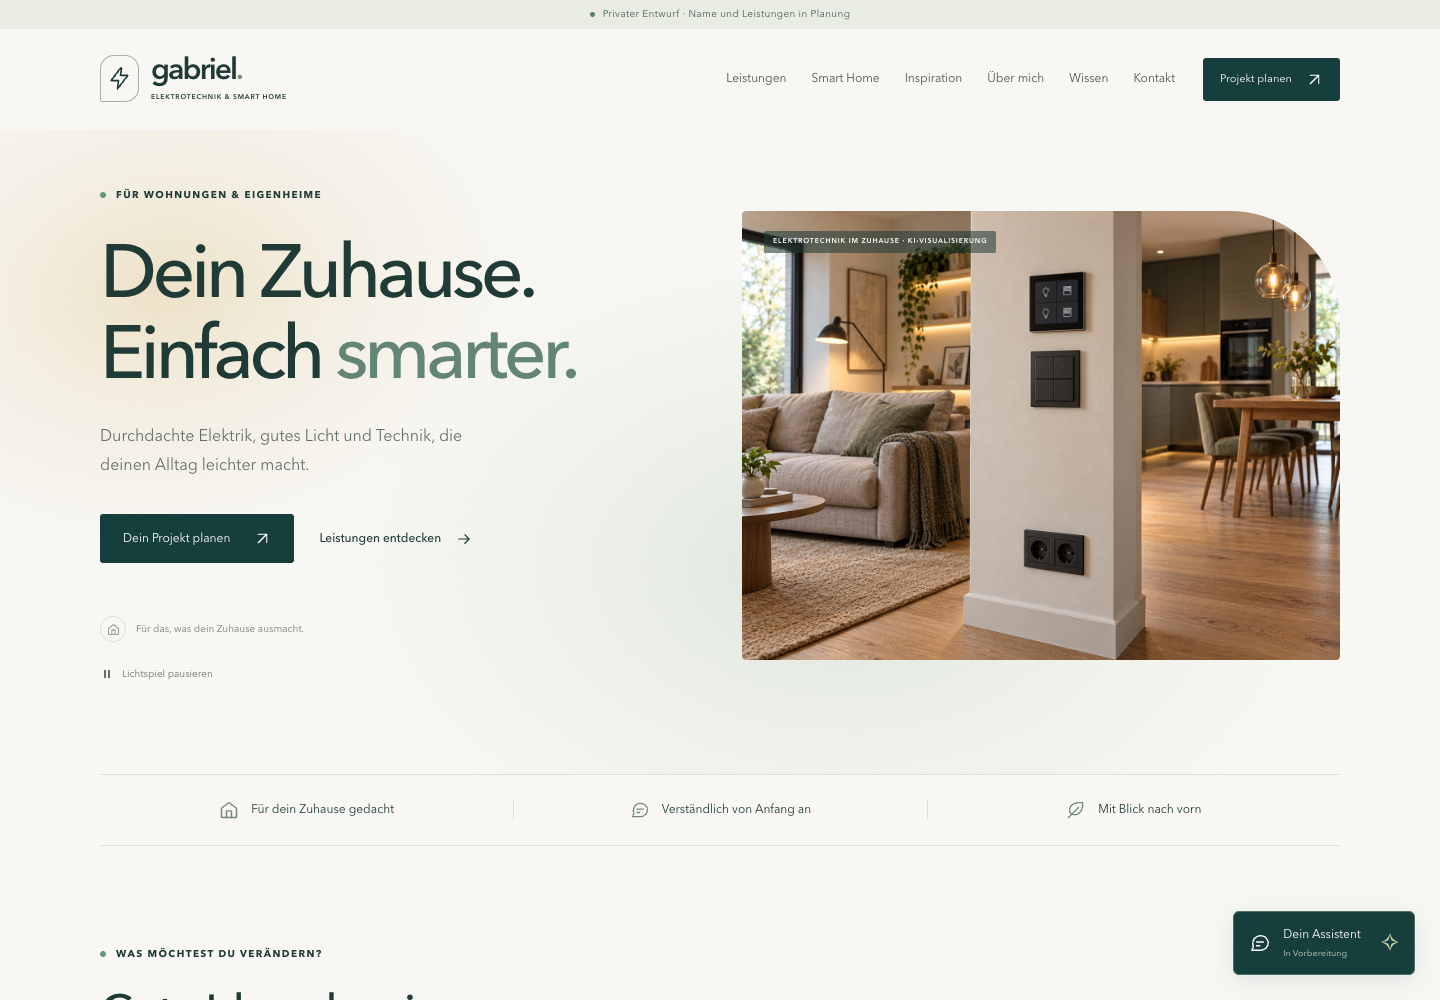
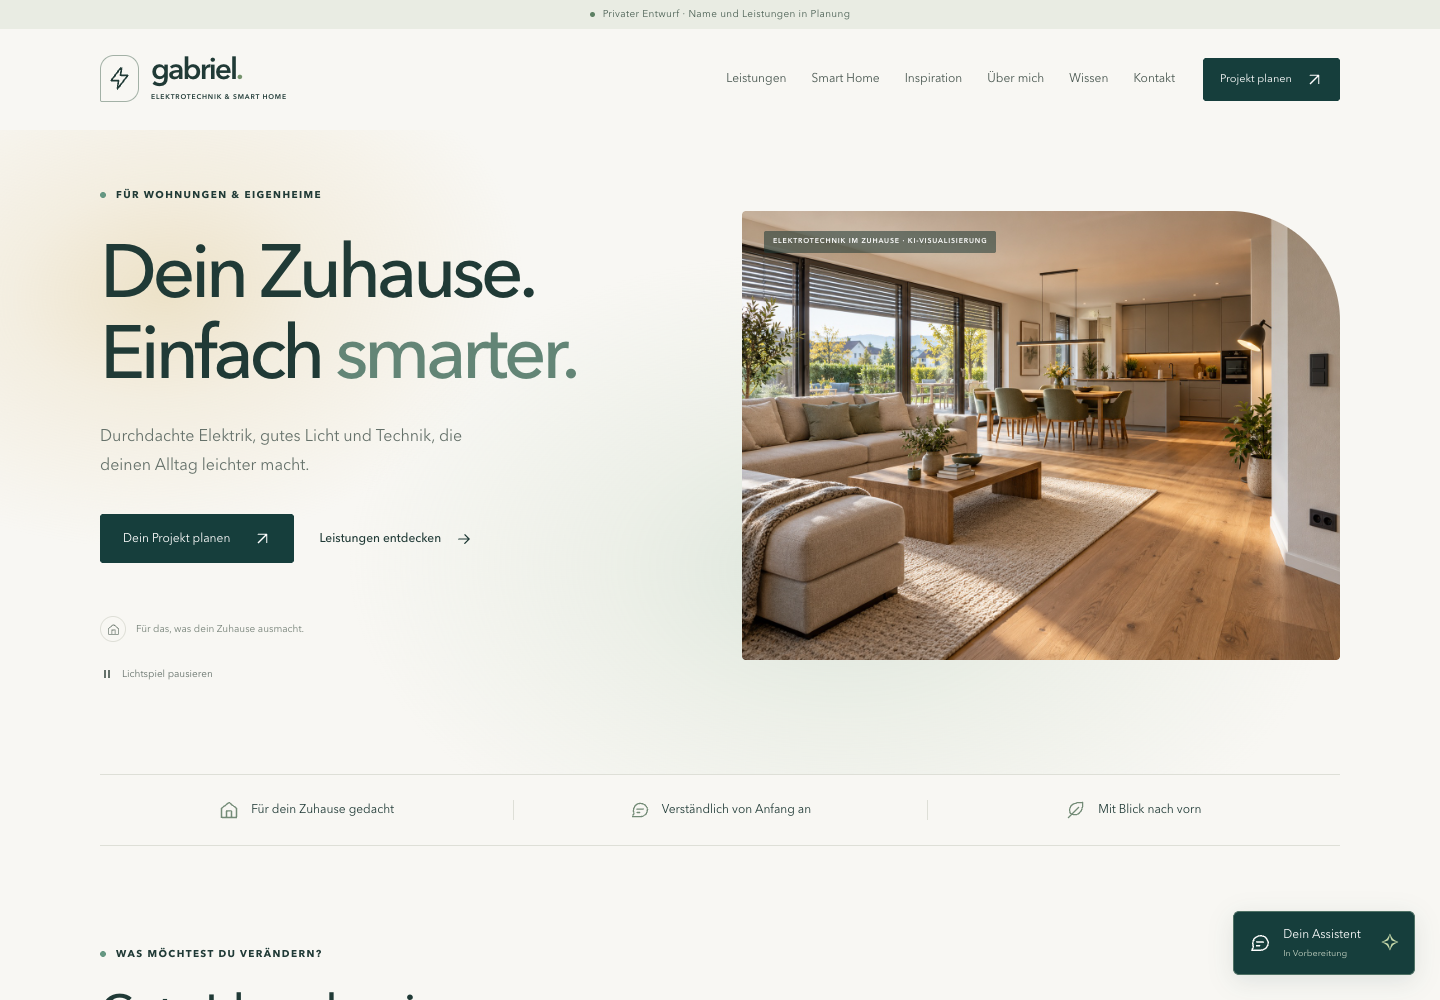
Neues Startbild mit weitem Wohnraumblick und integrierter Elektrotechnik einbauen

Changed region(s): [[0.5, 0.186, 0.9375, 0.682]]

diff --git a/docs/PROJEKTSTAND.md b/docs/PROJEKTSTAND.md
@@ -1,13 +1,21 @@
 # Projektstand
 
-Stand: 30.10.2026 · Weiterer Ausschnitt für das Startbild
+Stand: 30.10.2026 · Neues Startbild mit großzügigem Raumblick
 
-## Aktuelle Bildanpassung
+## Aktuelles Startbild
+
+- Gabriel hat ausdrücklich ein neues Bild beauftragt. Das Motiv mit zentraler Technikwand wurde ersetzt.
+- Neues Motiv mit eingebautem Imagegen: großzügiger Blick auf einen offenen Wohn- und Essbereich. Steckdosen und Wandtaster sitzen an der Seitenwand; Jalousien, eingeschaltete Leuchten und offene Küche mit Backofen sind in den Raum eingebunden.
+- Datei: `public/assets/wohnraum-elektrotechnik-weit.jpg`, 1448 × 1086 Pixel. Vollständiges Foto im Seitenverhältnis 4:3 auf Desktop und Mobil. Preload, Alternativtext und Bildnachweise angepasst; Kennzeichnung als KI-Visualisierung bleibt erhalten. Originalpfad und vollständiger Prompt in [STARTBILD-WOHNRAUM.md](STARTBILD-WOHNRAUM.md).
+- Build und 509 interne Verweise erfolgreich. Alle Seiten erreichbar sowie mobiles Layout und Navigation erfolgreich geprüft. Neues Bild und passender Preload auf Desktop und Mobil kontrolliert; Vorschauansichten aktualisiert.
+- Aktueller Arbeitsbranch: `feat/startbild-wohnraum-weit`, aufbauend auf `46427bb`. Nächster Schritt: das neue Raummotiv mit Gabriel ansehen und sein Feedback aufnehmen.
+
+## Vorherige Bildanpassung
 
 - Gabriel gefiel die nahe Darstellung nicht; sein Wunsch war, etwas herauszuzoomen.
 - Das vorhandene Foto wird jetzt vollständig im Seitenverhältnis 4:3 und mittig angezeigt. Der hohe Bildrahmen mit seitlichem Beschnitt entfällt. Mehr Wohnraum ist sichtbar, die Technik wirkt kleiner. Die Bilddatei wurde nicht verändert und kein neues Motiv generiert.
 - Umsetzung nur in `public/assets/smart-demos.css`, Einzelheiten in [STARTBILD.md](STARTBILD.md). Build und 509 interne Verweise sowie mobile Navigation und Layout erfolgreich geprüft. Vollständiges Bildverhältnis auf Desktop und Mobil kontrolliert; Vorschauansichten aktualisiert.
-- Aktueller Arbeitsbranch: `style/startbild-weiterer-ausschnitt`, aufbauend auf `92cd957`. Nächster Schritt: den weiteren Ausschnitt mit Gabriel ansehen.
+- Mit `46427bb` auf `style/startbild-weiterer-ausschnitt` gesichert, aufbauend auf `92cd957`.
 
 ## Aktuelle Überarbeitung
 
@@ -122,7 +130,7 @@ Fragen und Verhalten stehen in [INSPIRATIONSBERATER.md](INSPIRATIONSBERATER.md).
 
 ## Nächster gemeinsamer Schritt
 
-Beim Wiedereinstieg den weiteren Ausschnitt des Startbilds mit Gabriel ansehen und sein Feedback aufnehmen. Die Lichtstärke ist bereits leicht erhöht. Auch Jalousien-Demo und die sechs erweiterten Leistungsseiten können weiter verfeinert werden. Die reduzierte Lichtauswahl und die Abenddämmerung sind umgesetzt. Bei weiterer Smart-Home-Arbeit an `src/smart-home.mjs`, `src/room.mjs` und `src/shading.mjs` anknüpfen. Inspiration und Berater können bei Bedarf weiter verfeinert werden.
+Beim Wiedereinstieg das neue Startbild mit großzügigem Raumblick mit Gabriel ansehen und sein Feedback aufnehmen. Die Lichtstärke ist bereits leicht erhöht. Auch Jalousien-Demo und die sechs erweiterten Leistungsseiten können weiter verfeinert werden. Die reduzierte Lichtauswahl und die Abenddämmerung sind umgesetzt. Bei weiterer Smart-Home-Arbeit an `src/smart-home.mjs`, `src/room.mjs` und `src/shading.mjs` anknüpfen. Inspiration und Berater können bei Bedarf weiter verfeinert werden.
 
 Gabriels ergänzende Idee ist festgehalten: Wiederkehrende Fragen aus dem späteren echten Chatbot sollen als „Top-Fragen“ mit kurzen Antworten beim Berater ergänzt werden. Fehlt für die Beratung regelmäßig eine Angabe, kann auch der Fragenablauf gezielt erweitert werden. Es werden dafür jetzt keine häufigen Kundenfragen behauptet. Die spätere Auswertung und Übernahme sind noch nicht implementiert.
 
@@ -132,7 +140,7 @@ Danach bleiben Firmenname, Einsatzgebiet, tatsächlicher Leistungsumfang, echte 
 
 Privates Repository: https://github.com/Gabrielysf31/meine-website
 
-Die erste Website-Umsetzung liegt auf `feat/erster-website-entwurf` bis Commit `b73bed2`. Die konkrete Konzeptausarbeitung wurde auf `docs/inspirationsberater-konzept` mit Commit `82b6863` gesichert. Inspiration und Berater wurden mit Commit `a33994a` auf `feat/inspiration-berater` gesichert. Darauf bauen Smart Home (`8ddc091`), Lichtsimulation (`a7aeeec`), Tageslicht (`e6a6a90`), die zwischenzeitliche rote Lichtfarbe (`630896b`) und die endgültige reduzierte Auswahl (`e4ad57b`) auf. Der Abschluss vom 29.10. liegt mit Commit `066b7fb` auf `feat/smart-home-ruhige-lichtstimmungen`. Die Abenddämmerung wurde mit `9108999` auf `fix/smart-home-abenddaemmerung` gesichert. Die ausgearbeiteten Leistungsseiten liegen mit `75dc264` auf `feat/leistungen-ausfuehrlich`. Jalousien-Demo und erstes Lichtspiel sind mit `3cba83c` auf `feat/jalousien-demo-lichtspiel` gesichert. Das verstärkte Lichtspiel ist mit `2b06c13` auf `style/lichtspiel-sichtbarer` gesichert. Das neue Startbild und die nochmals leicht angehobene Lichtstärke sind mit `92cd957` auf `feat/startbild-elektrotechnik` gesichert. Der aktuelle, vollständige Arbeitsstand mit weiterem Bildausschnitt liegt auf `style/startbild-weiterer-ausschnitt`. `main` enthält weiterhin die ursprüngliche Repository-Initialisierung; es wurde nichts in `main` integriert oder als Website veröffentlicht.
+Die erste Website-Umsetzung liegt auf `feat/erster-website-entwurf` bis Commit `b73bed2`. Die konkrete Konzeptausarbeitung wurde auf `docs/inspirationsberater-konzept` mit Commit `82b6863` gesichert. Inspiration und Berater wurden mit Commit `a33994a` auf `feat/inspiration-berater` gesichert. Darauf bauen Smart Home (`8ddc091`), Lichtsimulation (`a7aeeec`), Tageslicht (`e6a6a90`), die zwischenzeitliche rote Lichtfarbe (`630896b`) und die endgültige reduzierte Auswahl (`e4ad57b`) auf. Der Abschluss vom 29.10. liegt mit Commit `066b7fb` auf `feat/smart-home-ruhige-lichtstimmungen`. Die Abenddämmerung wurde mit `9108999` auf `fix/smart-home-abenddaemmerung` gesichert. Die ausgearbeiteten Leistungsseiten liegen mit `75dc264` auf `feat/leistungen-ausfuehrlich`. Jalousien-Demo und erstes Lichtspiel sind mit `3cba83c` auf `feat/jalousien-demo-lichtspiel` gesichert. Das verstärkte Lichtspiel ist mit `2b06c13` auf `style/lichtspiel-sichtbarer` gesichert. Das neue Startbild und die nochmals leicht angehobene Lichtstärke sind mit `92cd957` auf `feat/startbild-elektrotechnik` gesichert. Der weitere Bildausschnitt ist mit `46427bb` auf `style/startbild-weiterer-ausschnitt` gesichert. Der aktuelle, vollständige Arbeitsstand mit neuem großzügigem Raummotiv liegt auf `feat/startbild-wohnraum-weit`. `main` enthält weiterhin die ursprüngliche Repository-Initialisierung; es wurde nichts in `main` integriert oder als Website veröffentlicht.
 
 Die von Gabriel geöffnete lokale Vorschau unter `http://localhost:4173` wurde wiederverwendet und während der Umsetzung aktualisiert. Falls sie nicht läuft: `npm run dev`. Nach weiteren Änderungen `npm run build` ausführen und den Browser neu laden.
 

diff --git a/docs/STARTBILD-WOHNRAUM.md b/docs/STARTBILD-WOHNRAUM.md
@@ -1,0 +1,27 @@
+# Neues Startbild: großzügiger Wohn- und Essbereich
+
+Erstellt am 30.10.2026 mit dem eingebauten Imagegen-Werkzeug, ohne CLI/API-Fallback.
+
+Gabriel hat nach dem Motiv mit zentraler Technikwand und der anschließenden Änderung des Ausschnitts ausdrücklich ein neues Bild beauftragt. Das neue Motiv zeigt den vollständigen Raum; die Technik ist darin in realistischen Größen verteilt.
+
+## Dateien und Einbau
+
+- Website: `public/assets/wohnraum-elektrotechnik-weit.jpg`, 1448 × 1086 Pixel, als JPEG komprimiert.
+- Original: `/Users/gabrielyousef/.codex/generated_images/01a18c97-9c4b-73d1-b7fd-299f35ae48a2/exec-bb02286c-4290-47aa-a58c-af5517f05fed.png`. Das Original bleibt erhalten.
+- Verwendung: Startseite, mit passendem Preload, Alternativtext und Kennzeichnung als KI-Visualisierung.
+- Motiv: offener Wohn- und Essbereich, seitlich angebrachte Schuko-Steckdosen und Wandtaster, Jalousien, eingeschaltete Pendel- und Leseleuchte sowie Küche mit Backofen und Unterbauleuchten.
+- Darstellung: vollständiges Bild im Seitenverhältnis 4:3 auf Desktop und Mobil. Kein zentrales Wandstück als Hauptmotiv.
+- Das vorherige Motiv `public/assets/zuhause-elektrotechnik.jpg` und dessen [Promptdokumentation](STARTBILD.md) bleiben zur Nachvollziehbarkeit erhalten; das Motiv wird auf der Website nicht mehr verwendet.
+- Illustratives Motiv, kein Kundenprojekt oder Nachweis einer konkreten Produktkompatibilität.
+
+## Vollständiger Prompt
+
+```text
+Use case: photorealistic-natural.
+Asset type: new homepage hero photo for a German residential electrician and smart-home website, landscape 4:3.
+Primary request: a fresh, spacious architectural view of a contemporary European living and dining room with naturally integrated visible electrical details. The overall room and comfortable living atmosphere are the main subjects.
+Composition: wide view from a room corner, eye-level 24–28 mm architectural photography, straight verticals, generous depth. Show an uninterrupted open room, a comfortable light fabric sofa and oak coffee table on the left, a small dining table and kitchen further back, and large windows with partly raised exterior venetian blinds. Keep the room readable as a complete space, with floor, ceiling and several furnishings visible.
+Electrical details: a believable dark wall switch/keypad mounted at ordinary switch height on a side wall by the entrance; a clearly visible European Schuko double socket at ordinary low height on an unobstructed wall beside a reading lamp; a built-in oven in the background kitchen. A restrained linear pendant above the dining table, a reading lamp and subtle under-cabinet LED lighting are visibly switched on. The controls and sockets should be recognizable parts of the room at realistic scale, naturally distributed across the room rather than grouped into a display.
+Materials and mood: warm oak, cream plaster, soft sage accents, realistic upholstery, soft daylight with gently illuminated electric lights, calm modern atmosphere, natural texture and restrained exposure, attainable well-planned home rather than a huge luxury mansion.
+Avoid: a central wall pier or pillar, a wall blocking the room, close-ups of switches, oversized fittings, giant touchscreens, gadget display walls, exposed wiring, futuristic devices, excessive golden glow, people, text, logos, watermarks, collage. No dominant foreground object; no overlay or caption baked into the image.
+```

diff --git a/README.md b/README.md
@@ -14,7 +14,7 @@ Website für Gabriels mögliche spätere Selbstständigkeit im Bereich Elektrote
 Der erste lokale Entwurf ist umgesetzt: helle Gestaltung mit Petrol, echte Unterseiten, mobile Navigation und kurze Inhalte für Privatkunden.
 
 - Startseite, Leistungsübersicht und sechs Leistungsunterseiten: Neubau, Modernisierung, Licht, Smart Home, Photovoltaik sowie Energie und Laden.
-- Neues Startbild mit deutlich sichtbaren Steckdosen, Wandtaster und Smart-Home-Bedienpanel, ergänzt durch eingeschaltete Leuchten und eine angrenzende Küche. Als KI-Visualisierung gekennzeichnet; Bild und vollständiger Prompt stehen in [docs/STARTBILD.md](docs/STARTBILD.md).
+- Neues Startbild mit großzügigem Blick auf Wohn- und Essbereich: seitlich angebrachte Steckdosen und Wandtaster, Jalousien, eingeschaltete Leuchten und eine offene Küche. Vollständig im Querformat und als KI-Visualisierung gekennzeichnet; Bild und vollständiger Prompt stehen in [docs/STARTBILD-WOHNRAUM.md](docs/STARTBILD-WOHNRAUM.md).
 - Alle sechs Leistungsseiten mit ausgeschriebenem Navigationspfad „Leistungen / Leistungsname“, drei ausführlichen Themenabschnitten, Sprunglinks und insgesamt 18 erklärenden Vektorskizzen. Dazu gehören ein markierter Beispielgrundriss, eine schematische Verteilung, Lichtbereiche und Energieübersichten.
 - Erweiterte Smart-Home-Seite mit eigenen Bildern, Funktionsübersicht, Bedienung, Einstieg im Bestand oder Neubau, fünf Antworten und Assistentenhinweis. Drei interaktive Alltagssituationen steuern eine illustrierte Raumansicht mit zwei Lampen. Warm, gedimmt und Aus lassen sich zusätzlich direkt ausprobieren.
 - Darunter eine Jalousien-Demo mit drei Räumen und Beispiel-App: einzeln öffnen, halb schließen oder schließen sowie alle gemeinsam öffnen und schließen. Fenster, Raumhelligkeit und angezeigte Zustände ändern sich zusammen. Auf Mobil bleibt die Fensteransicht beim Bedienen sichtbar.

diff --git a/docs/BILDQUELLEN.md b/docs/BILDQUELLEN.md
@@ -12,7 +12,7 @@ Vier weitere eigenständige Inspirationsmotive wurden mit dem eingebauten Imageg
 
 ## Startbild: Elektrotechnik im Zuhause
 
-Am 30.10.2026 mit dem eingebauten Imagegen-Werkzeug erstellt. `public/assets/zuhause-elektrotechnik.jpg` zeigt einen modernen Wohnraum mit gut sichtbaren Schuko-Steckdosen, Wandtaster, Bedienpanel und eingeschalteter Beleuchtung. Das Bild ersetzt den bisherigen Wohnraum auf der Startseite. Es ist als KI-Visualisierung gekennzeichnet und zeigt kein Kundenprojekt oder konkretes Produktsystem. Originalpfad und vollständiger Prompt stehen in [STARTBILD.md](STARTBILD.md).
+Am 30.10.2026 mit dem eingebauten Imagegen-Werkzeug neu erstellt. `public/assets/wohnraum-elektrotechnik-weit.jpg` zeigt einen großzügigen Wohn- und Essbereich mit seitlich angebrachten Schuko-Steckdosen und Wandtaster, Jalousien, eingeschalteten Leuchten und offener Küche. Das vollständige Motiv im Querformat ersetzt die vorherige Nahansicht auf der Startseite. Es ist als KI-Visualisierung gekennzeichnet und zeigt kein Kundenprojekt oder konkretes Produktsystem. Originalpfad und vollständiger Prompt stehen in [STARTBILD-WOHNRAUM.md](STARTBILD-WOHNRAUM.md). Das vorherige Bild `zuhause-elektrotechnik.jpg` und seine [Promptdokumentation](STARTBILD.md) bleiben als ungenutzter Zwischenstand erhalten.
 
 ## Wohnraumfotos
 

diff --git a/docs/STARTBILD.md b/docs/STARTBILD.md
@@ -1,5 +1,7 @@
 # Startbild: Elektrotechnik im Zuhause
 
+Dieses Motiv ist ein früherer Zwischenstand und wird nicht mehr auf der Startseite verwendet. Das aktuelle Motiv und sein vollständiger Prompt stehen in [STARTBILD-WOHNRAUM.md](STARTBILD-WOHNRAUM.md).
+
 Erstellt am 30.10.2026 mit dem eingebauten Imagegen-Werkzeug, ohne CLI/API-Fallback.
 
 Gabriels Wunsch: Die moderne Wohnatmosphäre beibehalten und im Startbild klar sichtbare Elektrotechnik zeigen. Der bisherige Wohnraum wirkte zu allgemein. Zusätzlich wurde die Hintergrund-Lichtstärke geringfügig angehoben.
